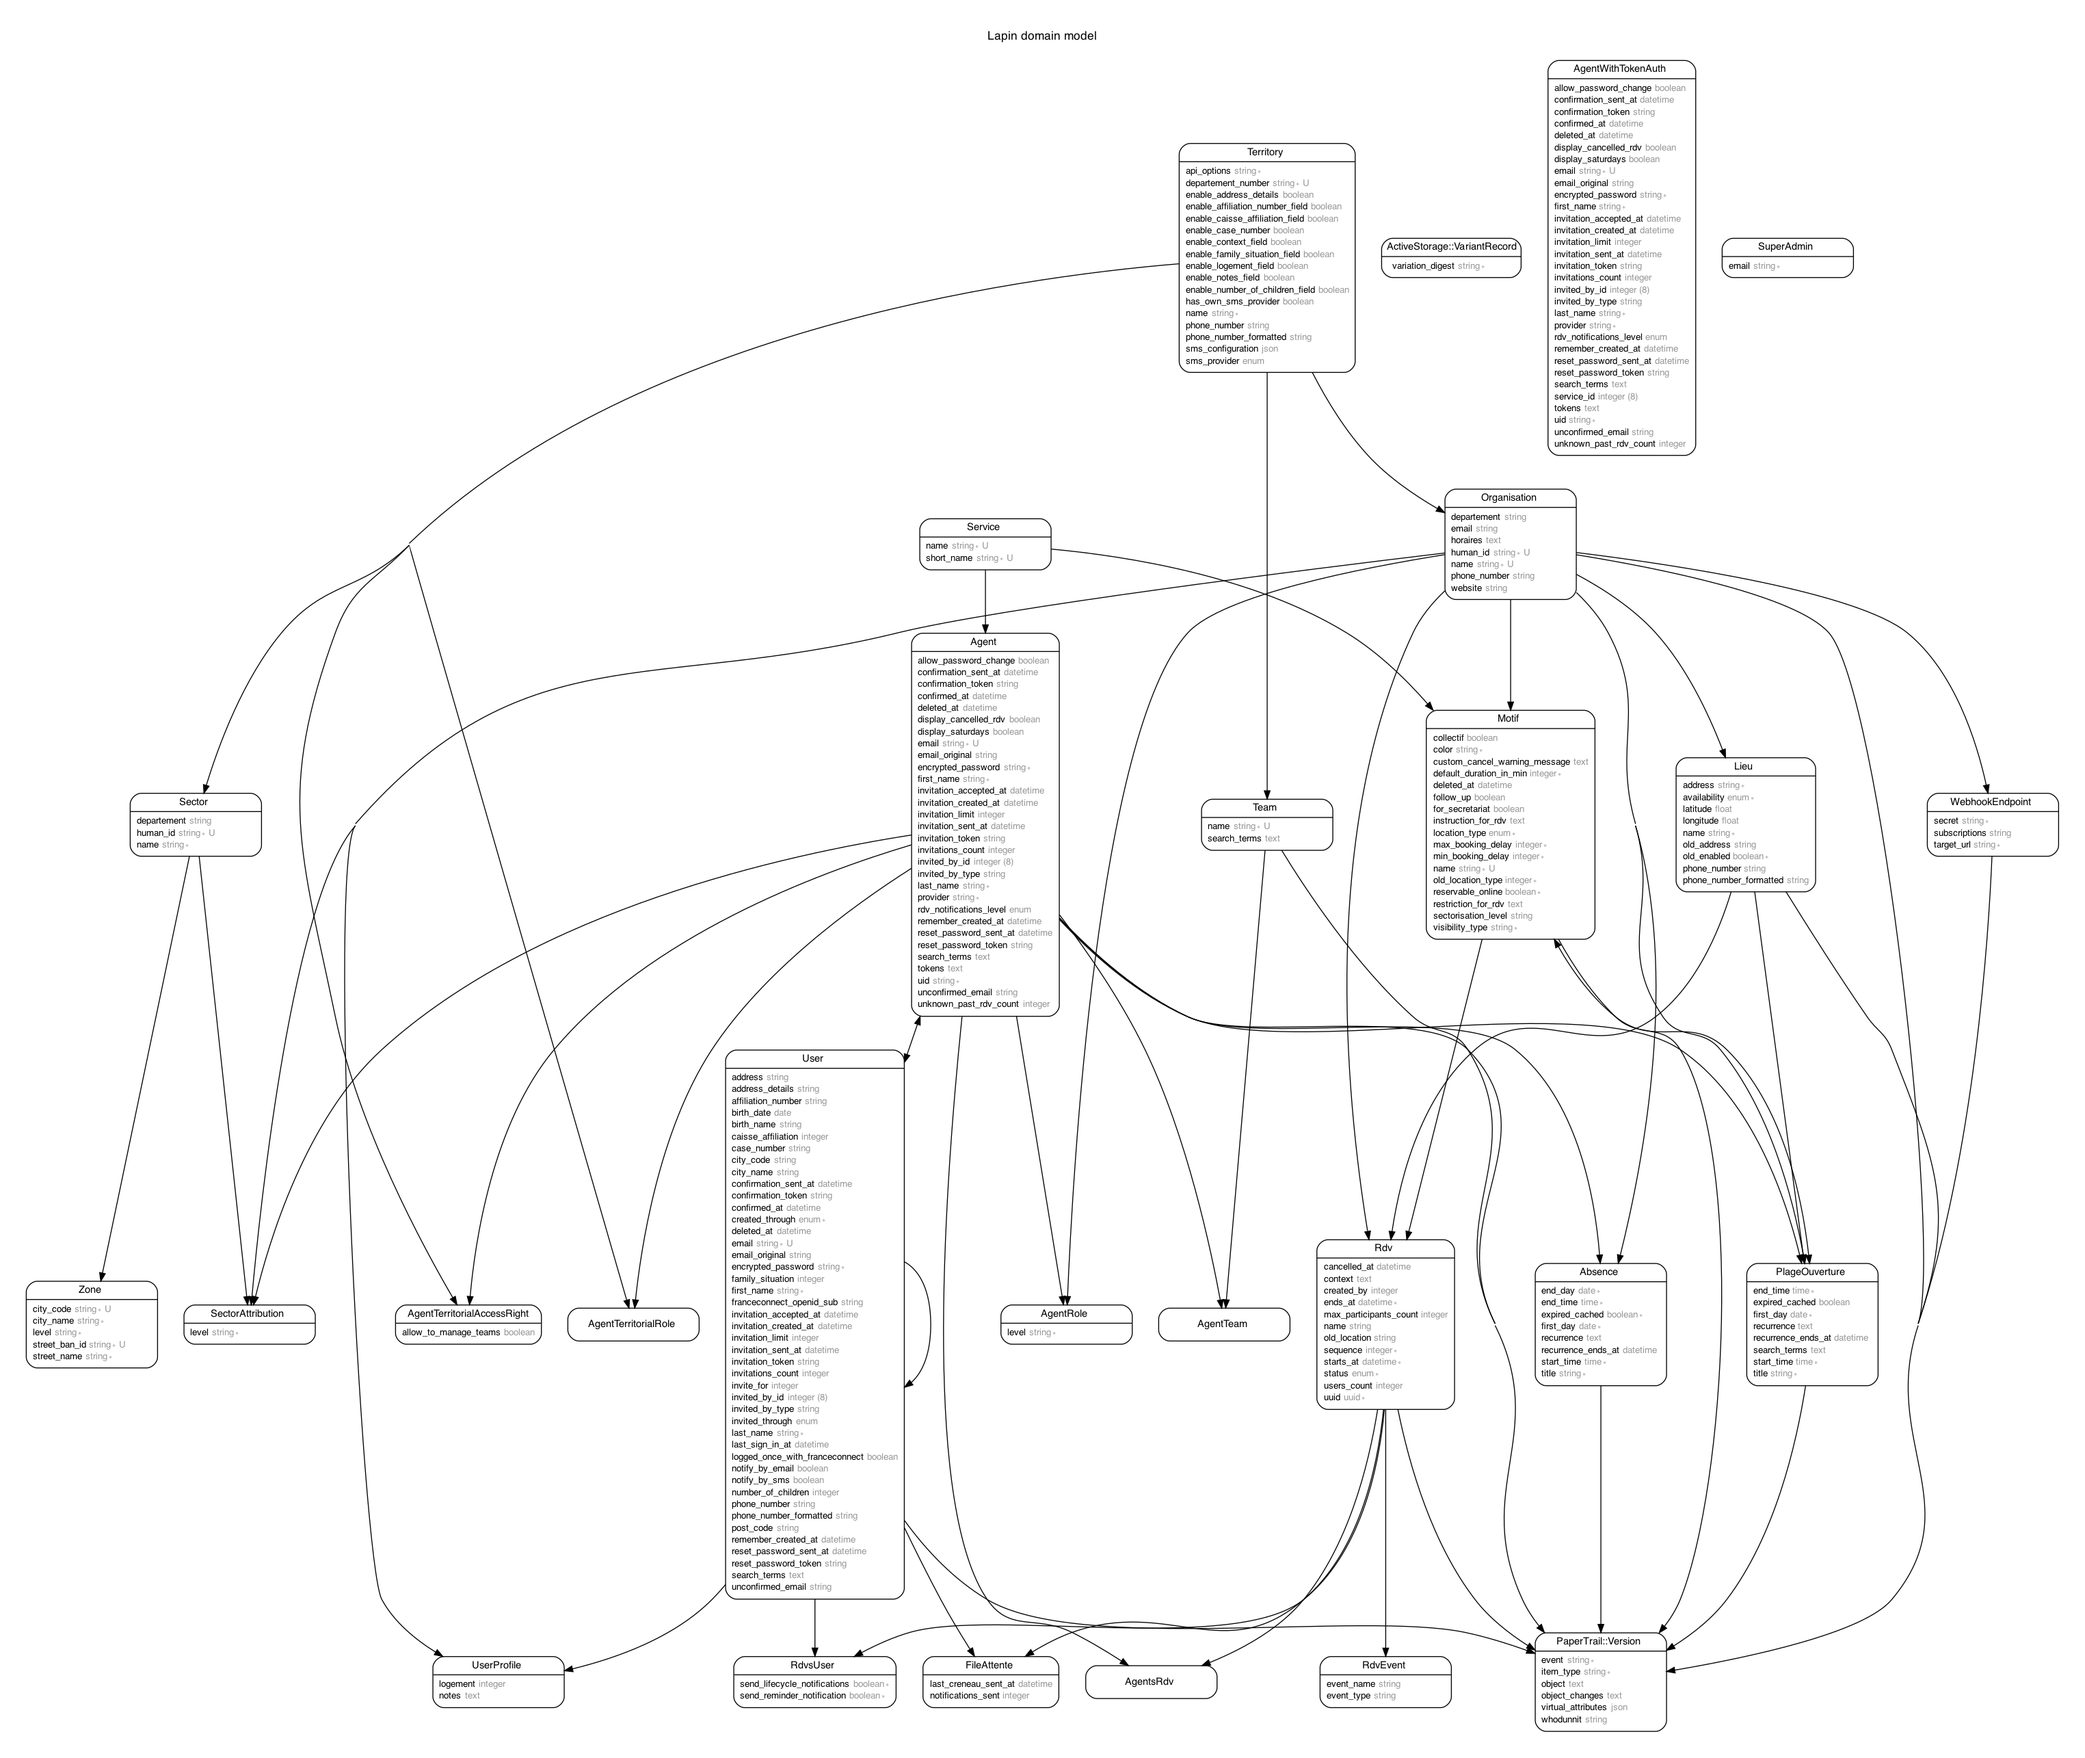
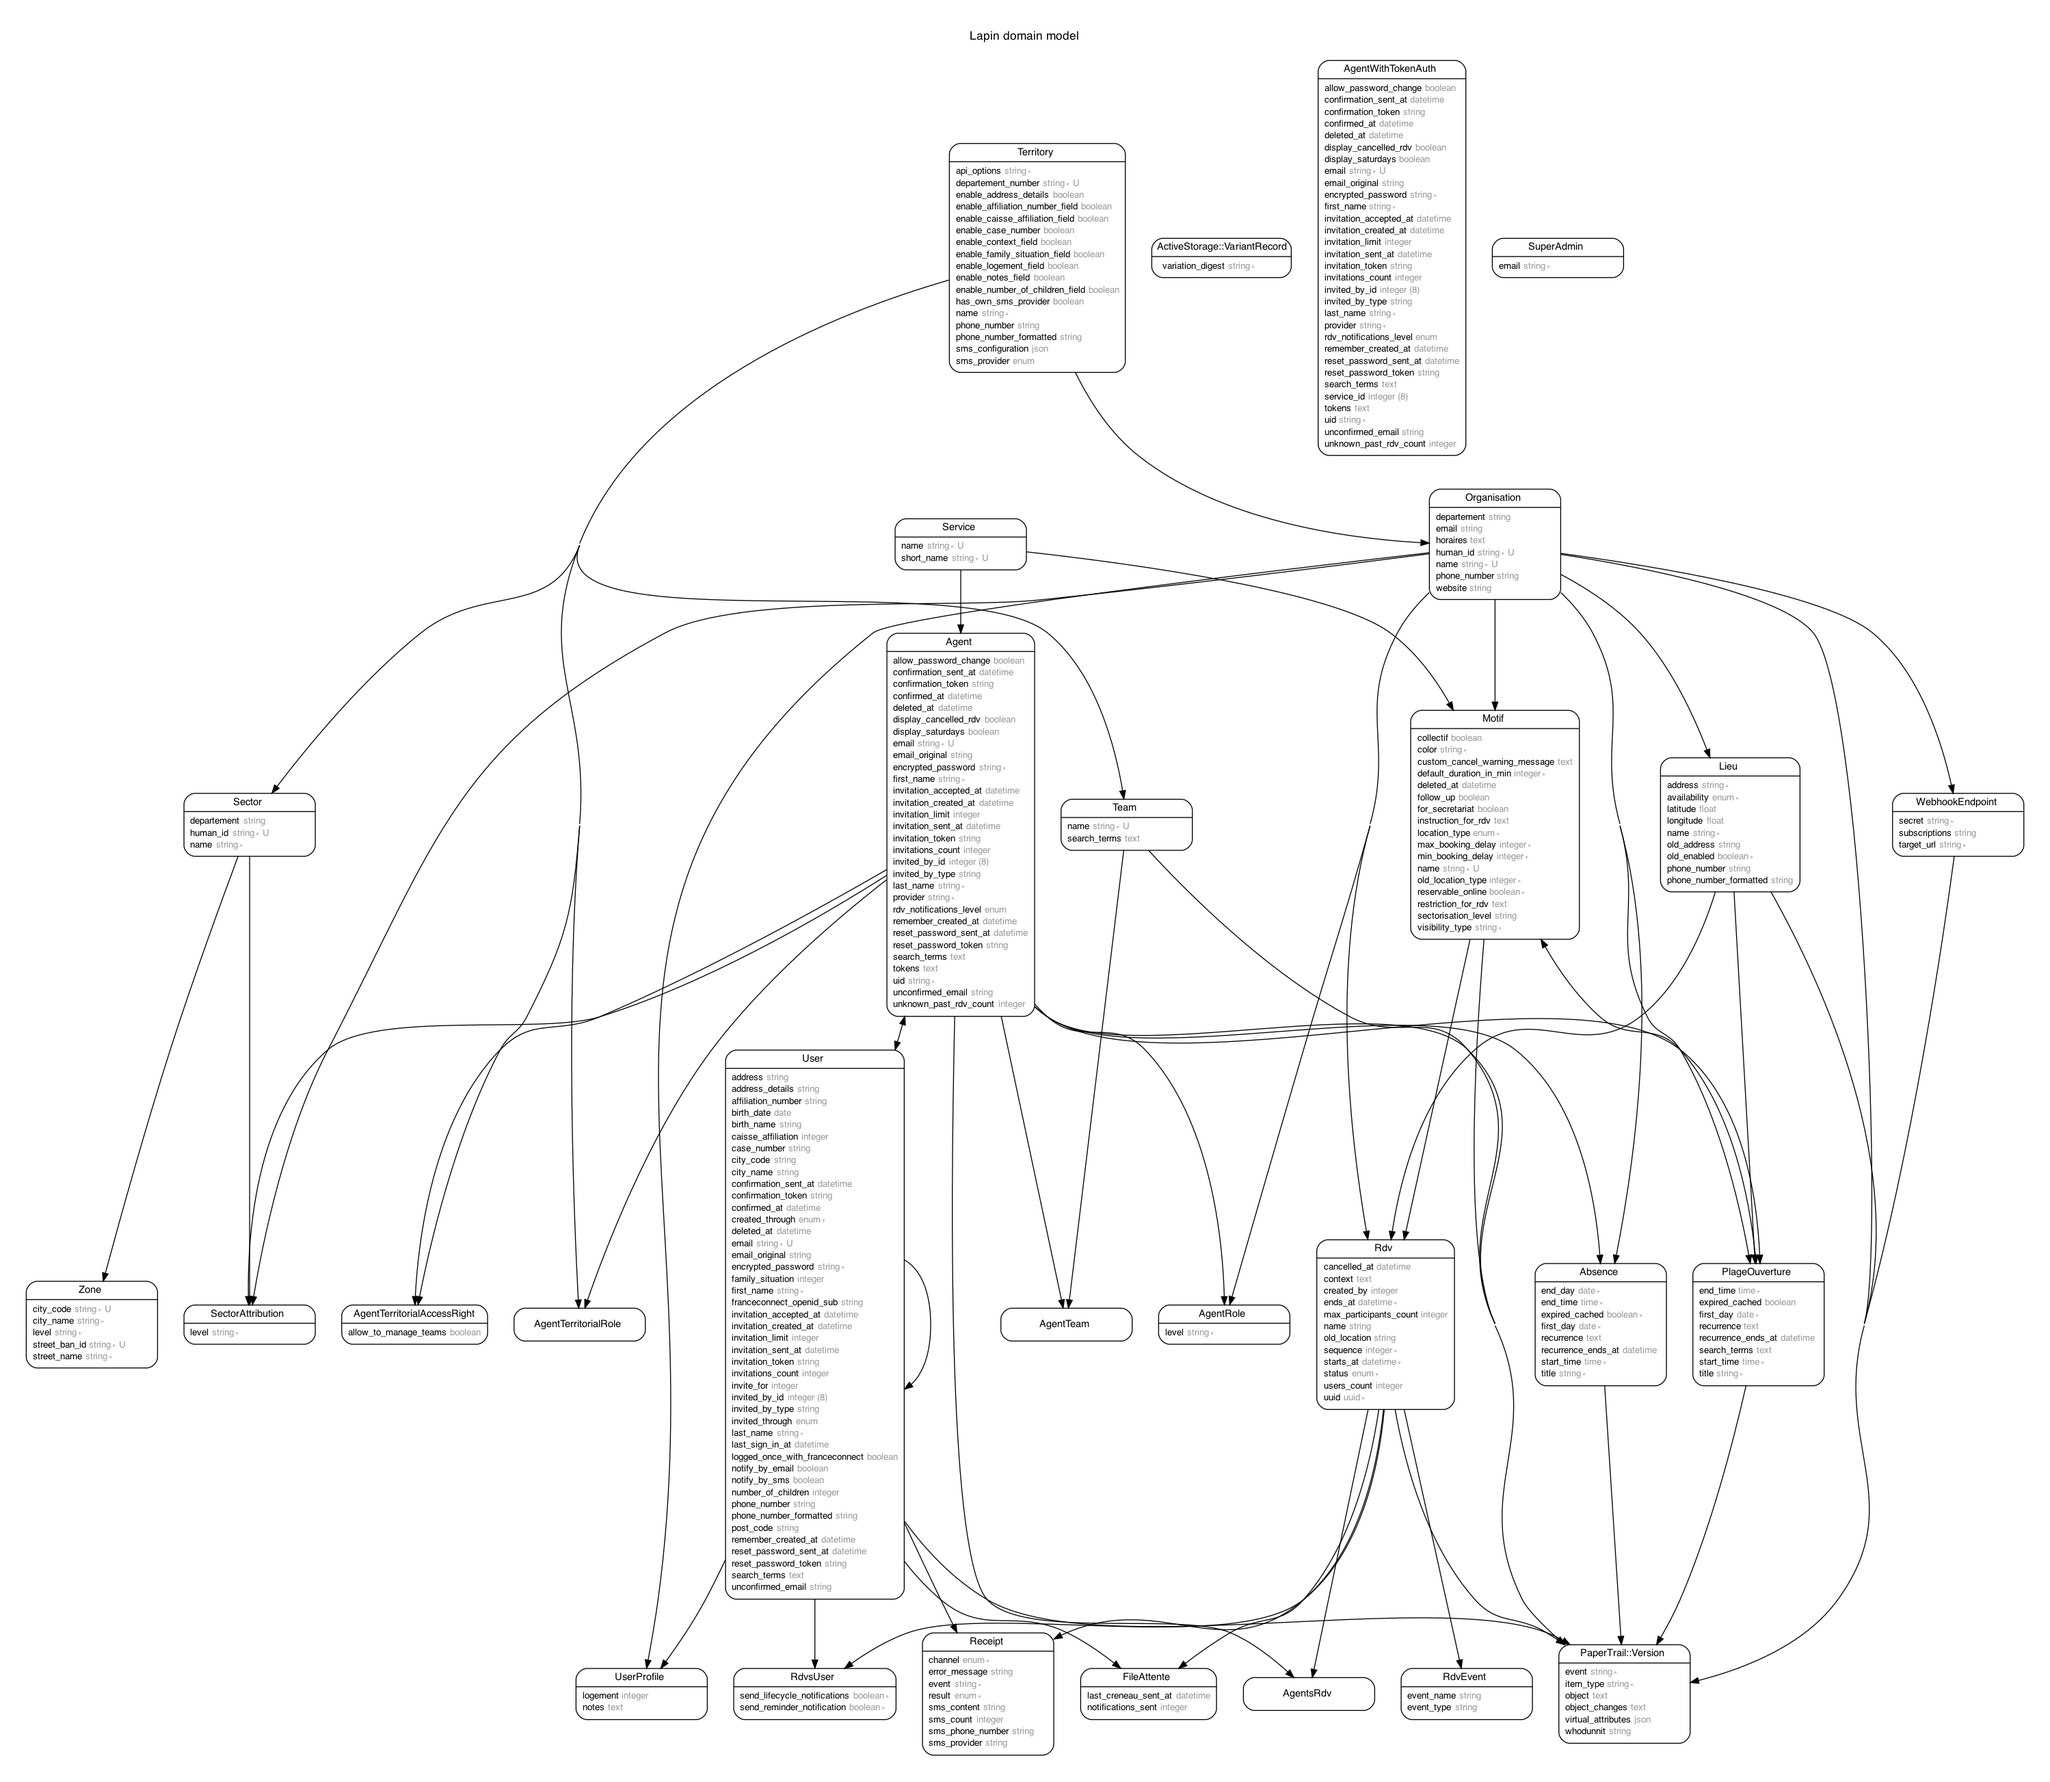
Add Receipt model

diff --git a/db/schema.rb b/db/schema.rb
@@ -45,6 +45,19 @@ ActiveRecord::Schema.define(version: 2022_04_11_085428) do
     "noshow",
   ], force: :cascade
 
+  create_enum :receipts_channel, [
+    "sms",
+    "mail",
+    "webhook",
+  ], force: :cascade
+
+  create_enum :receipts_result, [
+    "processed",
+    "sent",
+    "delivered",
+    "failure",
+  ], force: :cascade
+
   create_enum :sms_provider, [
     "netsize",
     "send_in_blue",
@@ -402,6 +415,27 @@ ActiveRecord::Schema.define(version: 2022_04_11_085428) do
     t.index ["rdv_id", "user_id"], name: "index_rdvs_users_on_rdv_id_and_user_id", unique: true
     t.index ["rdv_id"], name: "index_rdvs_users_on_rdv_id"
     t.index ["user_id"], name: "index_rdvs_users_on_user_id"
+  end
+
+  create_table "receipts", force: :cascade do |t|
+    t.bigint "rdv_id"
+    t.bigint "user_id"
+    t.string "event", null: false
+    t.enum "channel", null: false, enum_type: "receipts_channel"
+    t.enum "result", null: false, enum_type: "receipts_result"
+    t.string "error_message"
+    t.datetime "created_at", precision: 6, null: false
+    t.datetime "updated_at", precision: 6, null: false
+    t.string "sms_provider"
+    t.integer "sms_count"
+    t.string "sms_content"
+    t.string "sms_phone_number"
+    t.index ["channel"], name: "index_receipts_on_channel"
+    t.index ["created_at"], name: "index_receipts_on_created_at"
+    t.index ["event"], name: "index_receipts_on_event"
+    t.index ["rdv_id"], name: "index_receipts_on_rdv_id"
+    t.index ["result"], name: "index_receipts_on_result"
+    t.index ["user_id"], name: "index_receipts_on_user_id"
   end
 
   create_table "sector_attributions", force: :cascade do |t|

diff --git a/db/migrate/20220406092227_create_receipts.rb b/db/migrate/20220406092227_create_receipts.rb
@@ -1,0 +1,29 @@
+# frozen_string_literal: true
+
+class CreateReceipts < ActiveRecord::Migration[6.1]
+  def change
+    create_enum :receipts_channel, %i[sms mail webhook]
+    create_enum :receipts_result, %i[processed sent delivered failure]
+
+    create_table :receipts do |t|
+      t.references :rdv
+      t.references :user
+      t.string :event, null: false
+      t.column :channel, :receipts_channel, null: false
+      t.column :result, :receipts_result, null: false
+      t.string :error_message
+      t.timestamps null: false
+
+      # SMS specific columns
+      t.string :sms_provider
+      t.integer :sms_count
+      t.string :sms_content
+      t.string :sms_phone_number
+
+      t.index :created_at
+      t.index :event
+      t.index :channel
+      t.index :result
+    end
+  end
+end

diff --git a/app/models/receipt.rb b/app/models/receipt.rb
@@ -1,0 +1,11 @@
+# frozen_string_literal: true
+
+class Receipt < ApplicationRecord
+  # Attributes
+  enum result: { processed: "processed", sent: "sent", delivered: "delivered", failure: "failure" }
+  enum channel: { sms: "sms", mail: "mail", webhook: "webhook" }, _prefix: :channel
+
+  # Relations
+  belongs_to :rdv  # We could reference a RdvsUser directly (aka a “Participation”) but this would not work for responsible users of relatives.
+  belongs_to :user # Moreover, if we remove a user for a Rdv (deleting the RdvsUser), we still want to keep the receipt.
+end

diff --git a/app/models/user.rb b/app/models/user.rb
@@ -47,6 +47,7 @@ class User < ApplicationRecord
   belongs_to :responsible, class_name: "User", optional: true
   has_many :relatives, foreign_key: "responsible_id", class_name: "User", inverse_of: :responsible, dependent: :nullify
   has_many :file_attentes, dependent: :destroy
+  has_many :receipts, dependent: :destroy
 
   # Through relations
   has_many :organisations, through: :user_profiles, dependent: :destroy

diff --git a/app/models/rdv.rb b/app/models/rdv.rb
@@ -28,6 +28,7 @@ class Rdv < ApplicationRecord
   # https://github.com/rails/rails/issues/7618
   has_many :rdvs_users, validate: false, inverse_of: :rdv, dependent: :destroy
   has_many :events, class_name: "RdvEvent", dependent: :destroy
+  has_many :receipts, dependent: :destroy
 
   accepts_nested_attributes_for :rdvs_users, allow_destroy: true
   accepts_nested_attributes_for :lieu

diff --git a/spec/models/receipt_spec.rb b/spec/models/receipt_spec.rb
@@ -1,0 +1,5 @@
+require 'rails_helper'
+
+RSpec.describe Receipt, type: :model do
+  pending "add some examples to (or delete) #{__FILE__}"
+end
